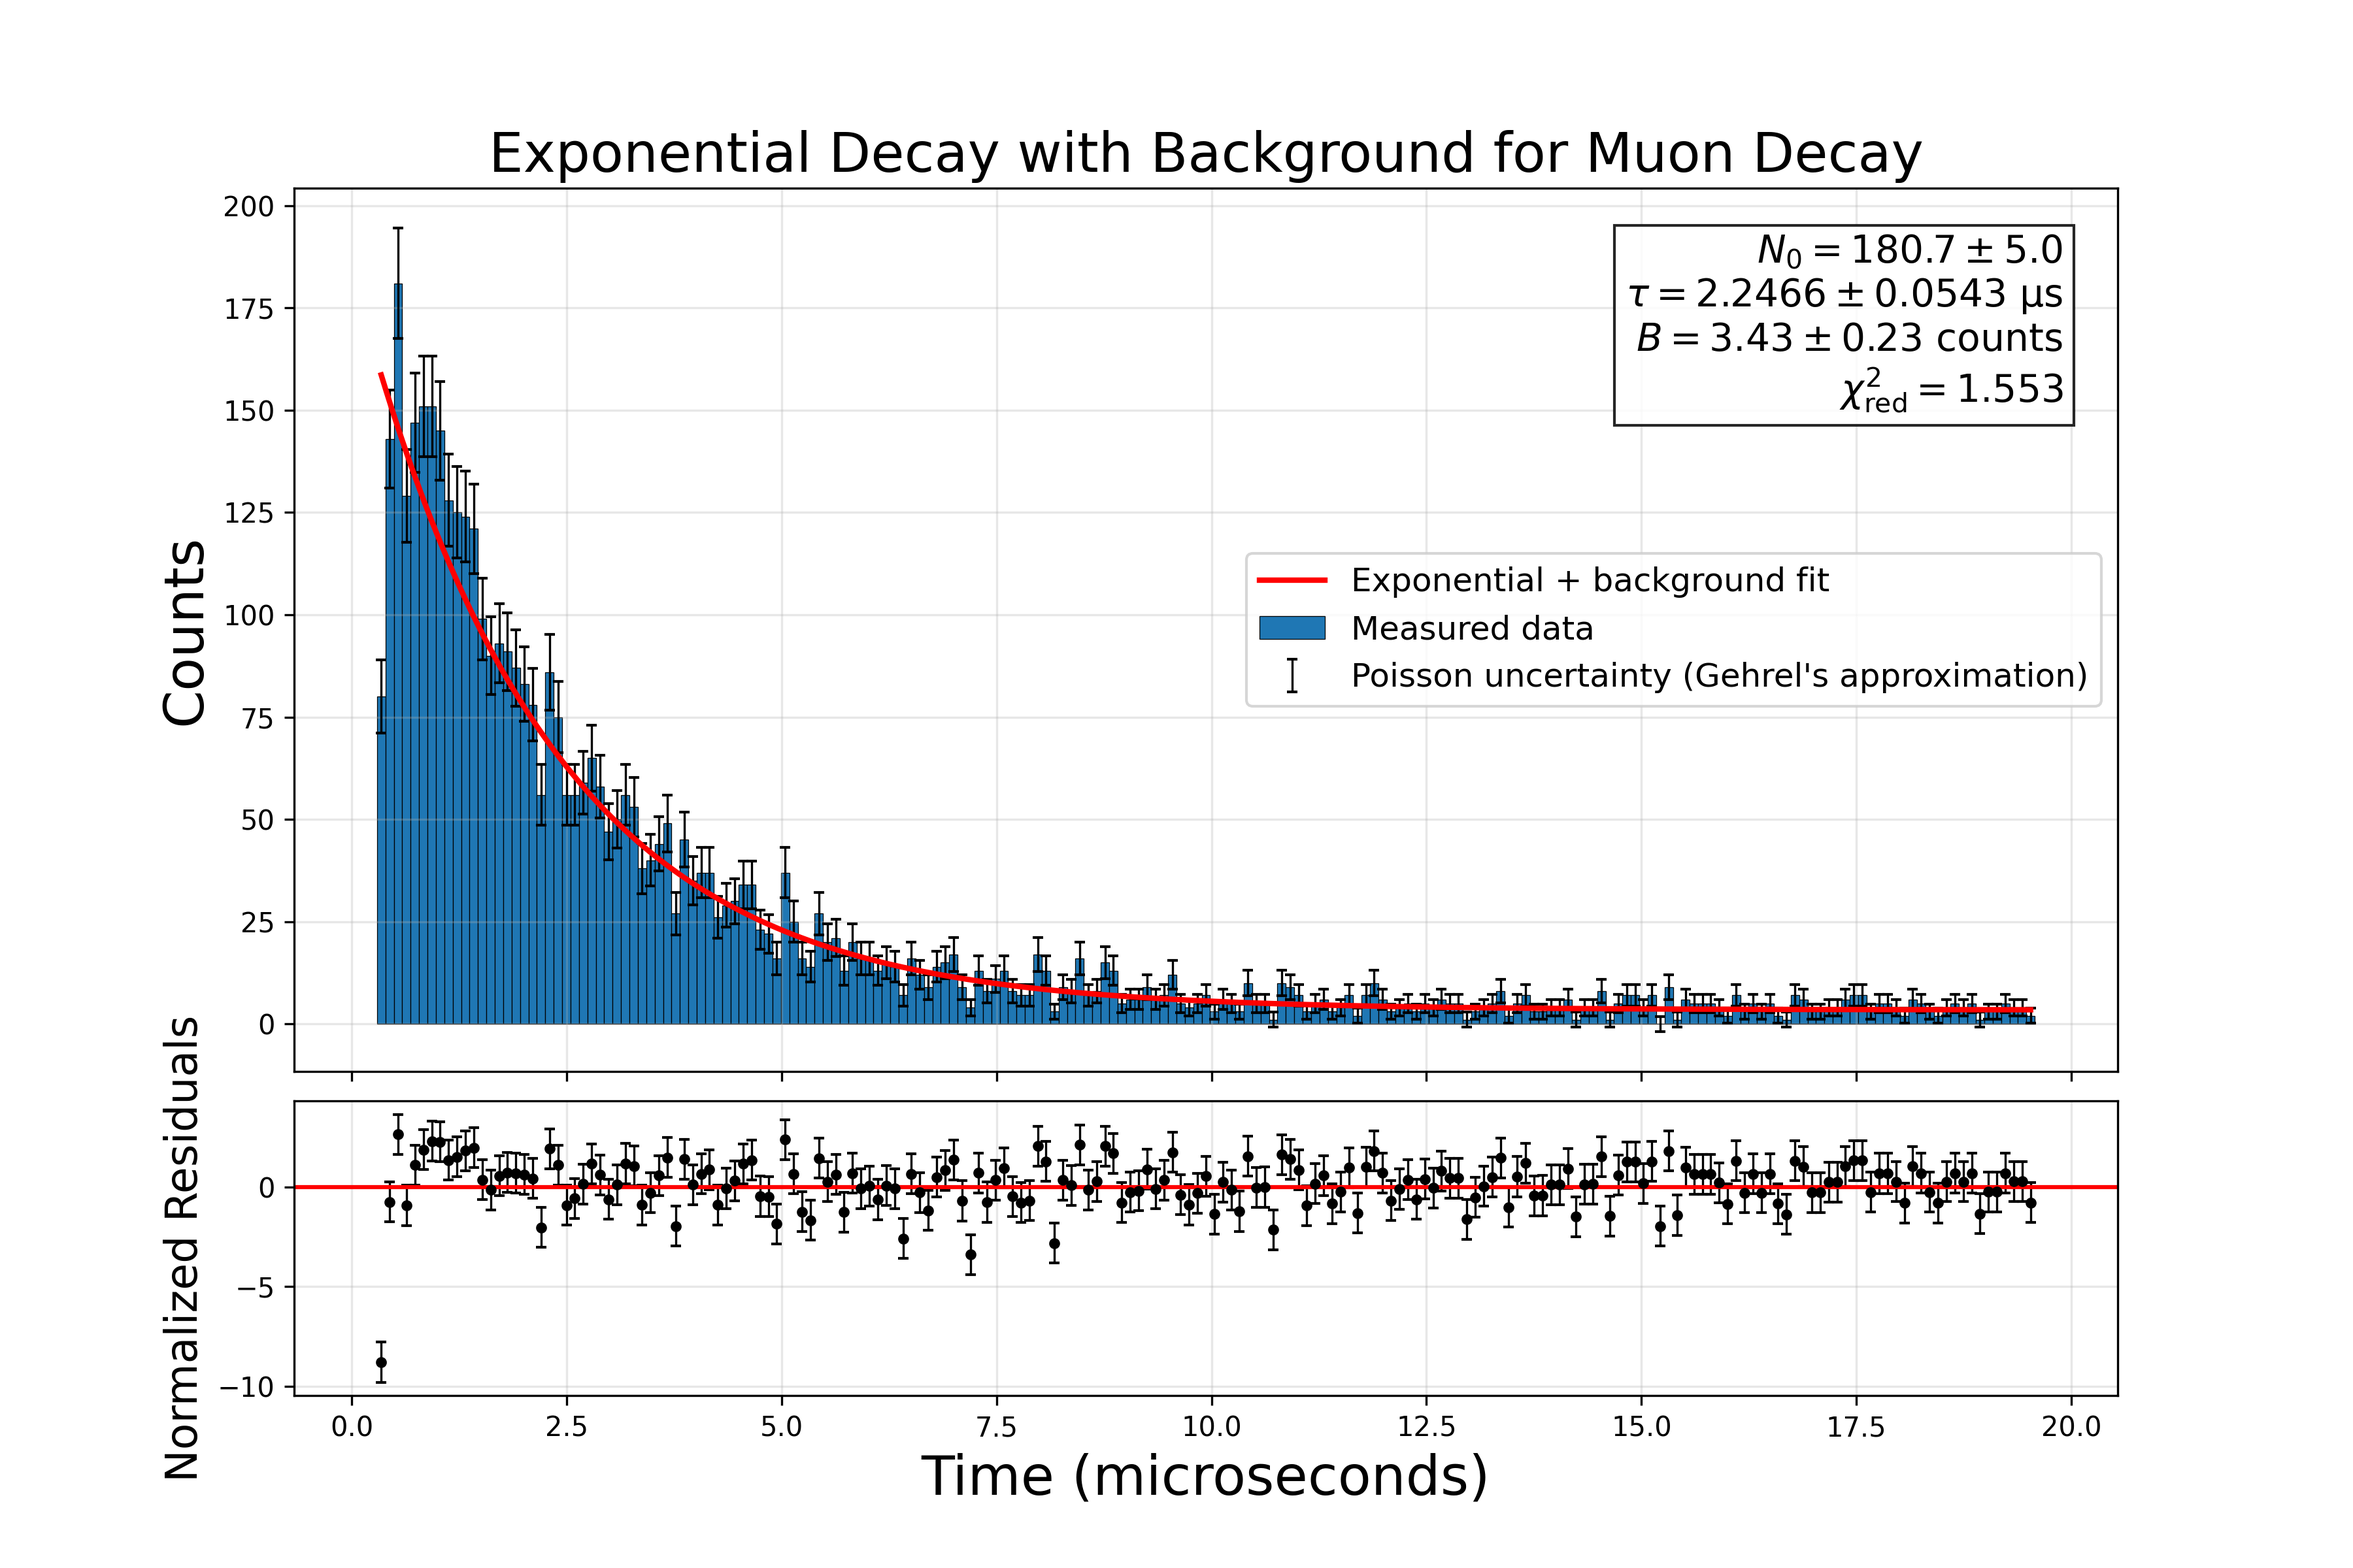
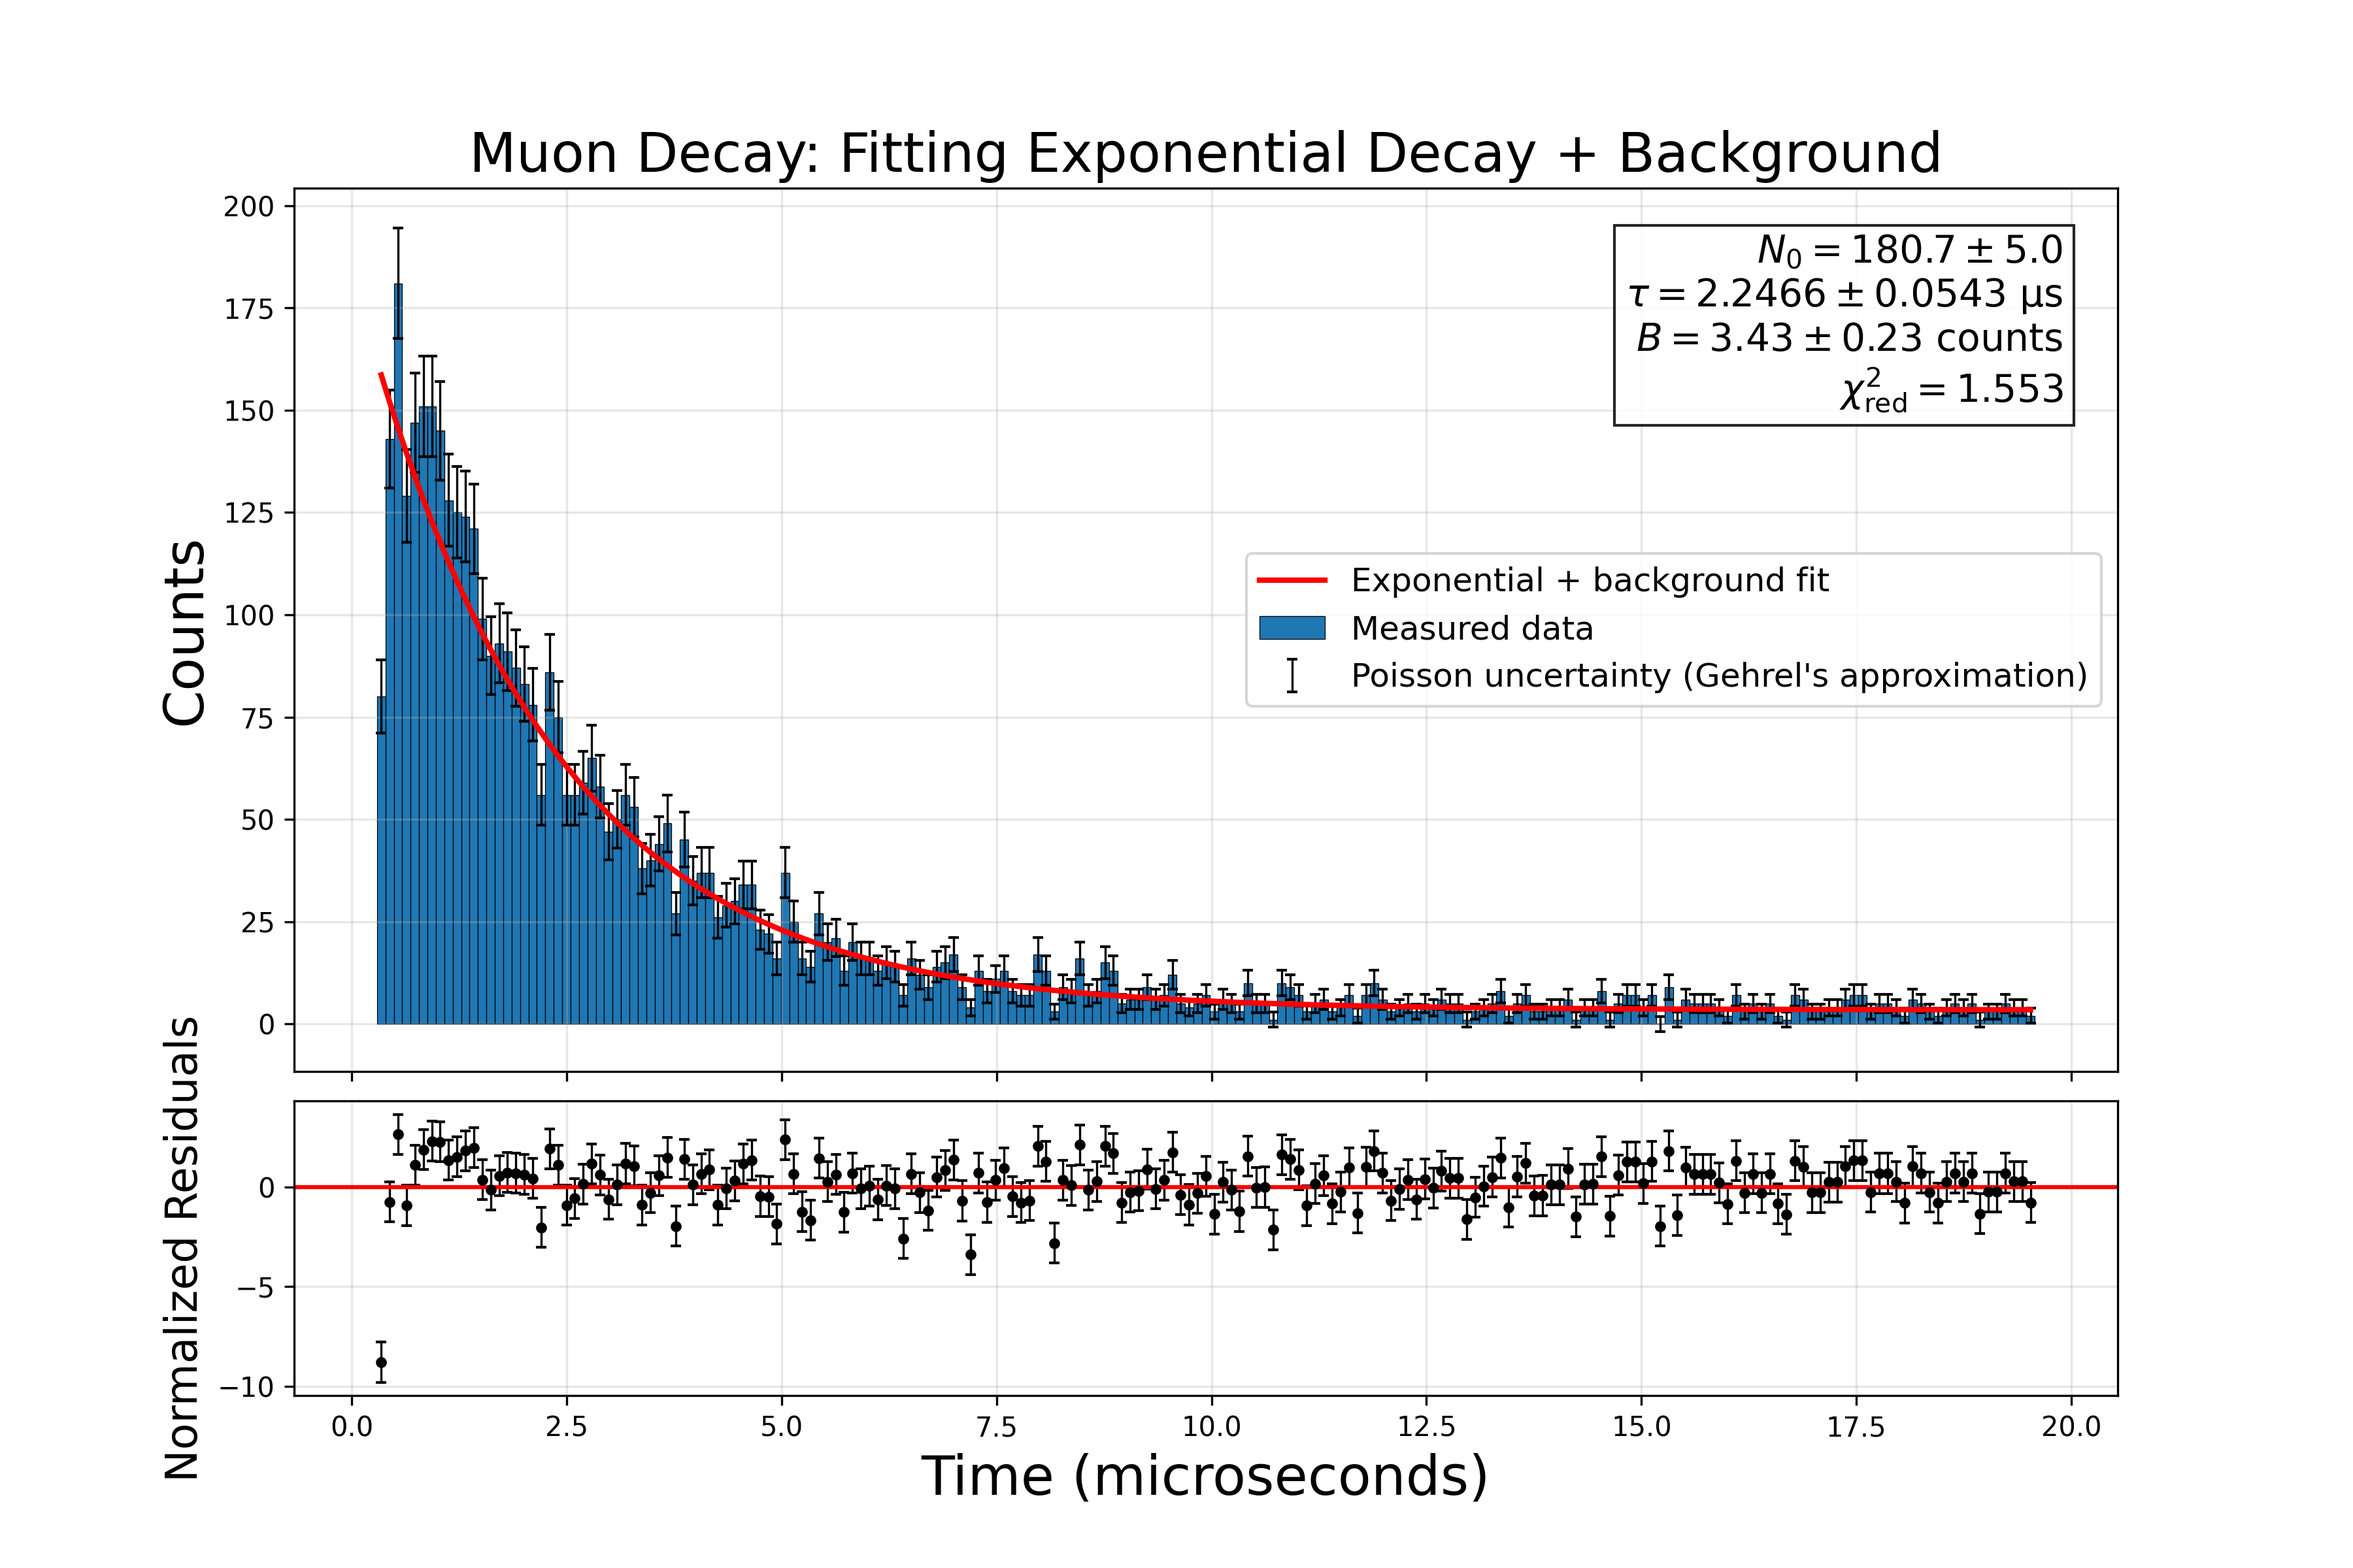
update plot title

Changed region(s): [[0.1867, 0.0625, 0.84, 0.125]]

diff --git a/python/muon_fitting.py b/python/muon_fitting.py
@@ -123,7 +123,7 @@ ax1.plot(
 )
 
 ax1.set_ylabel("Counts", size=20)
-ax1.set_title("Exponential Decay with Background for Muon Decay", size=20)
+ax1.set_title("Muon Decay: Fitting Exponential Decay + Background", size=20)
 ax1.grid(alpha=0.3)
 ax1.legend(fontsize=12)
 
